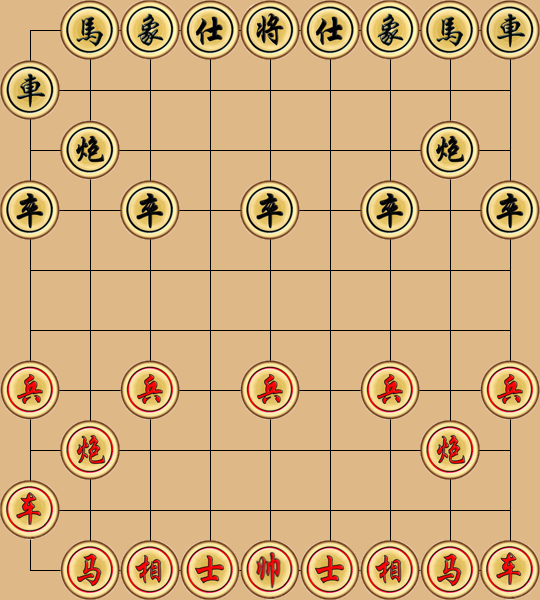
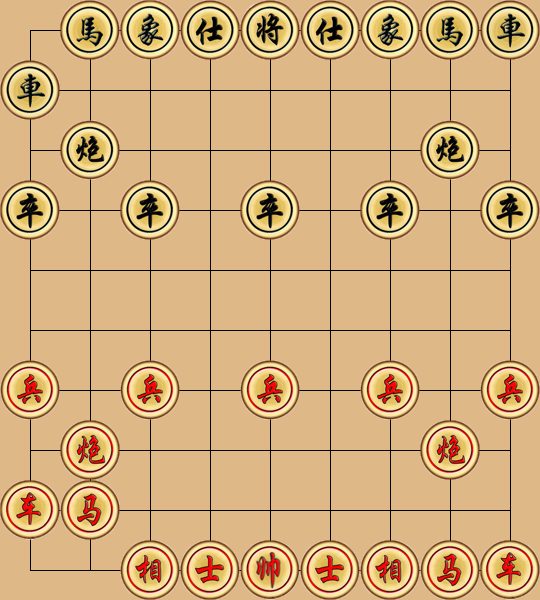
update board

Changed region(s): [[0.0889, 0.78, 0.237, 1.0]]

diff --git a/README.md b/README.md
@@ -9,7 +9,7 @@
 
 
 
-![current board](https://raw.githubusercontent.com/Asriel0727/xiangqi-battle/main/images/board.png?20250612023328)
+![current board](https://raw.githubusercontent.com/Asriel0727/xiangqi-battle/main/images/board.png?20250612023512)
 
-✅ 最新一步：a10-a9  
-🎯 現在輪到：**紅方**
+✅ 最新一步：b1-b2  
+🎯 現在輪到：**黑方**
